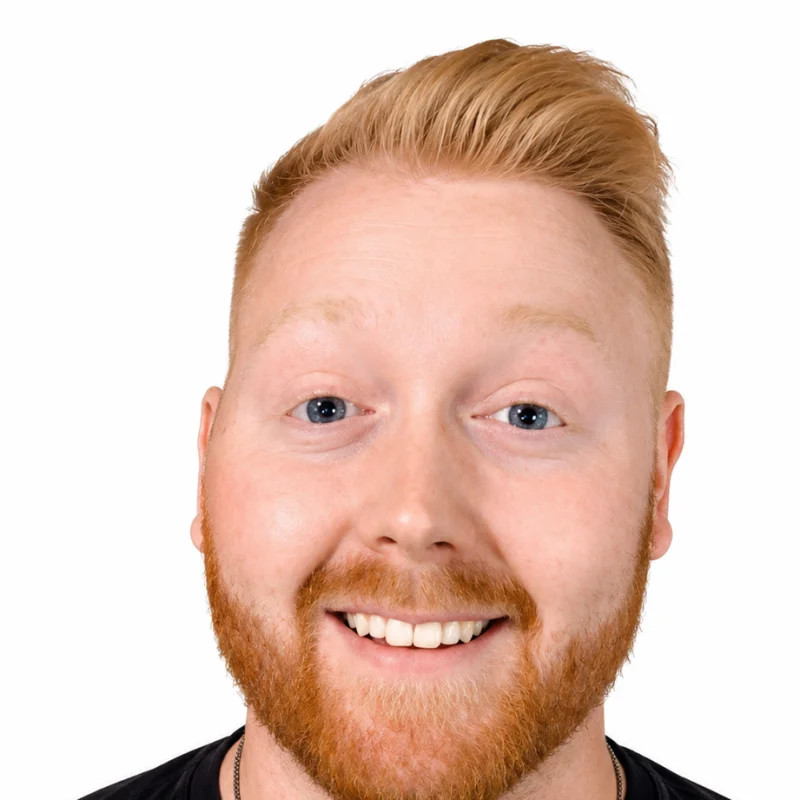
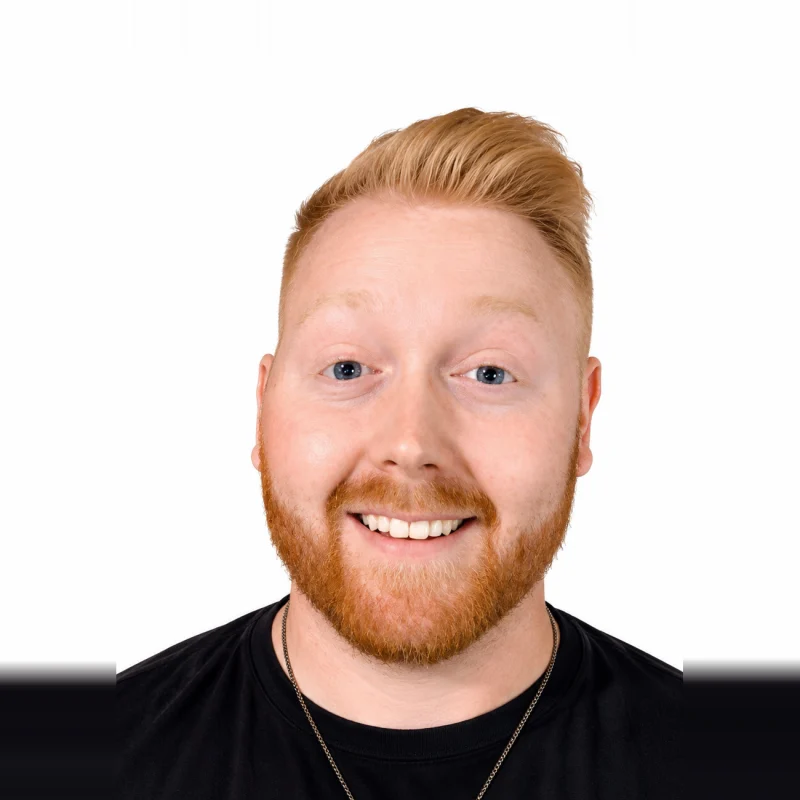
Match Jacob's photo scale to the grid; add Kevin's headshot
Jacob's source was cropped so tightly that his head filled 95% of a square
crop, against ~50-60% for every other portrait -- he read as zoomed in next
to the rest of the grid. His shoulders reach the frame edges just below the
beard, so there was no room to crop wider; instead the canvas is extended
to 1300px and the new margins are filled by replicating the edge columns.
The backdrop is flat white and the shirt flat black, so the fill is
seamless -- with two corrections: backdrop-ish edges snap to the measured
white (254) to avoid faint vertical stripes, and the edge colours are
smoothed over 41 rows so the white-to-shirt transition reads as a soft
out-of-focus shoulder rather than a hard step. His head now sits at 67% of
frame.

Kevin's photo is a straight swap to a studio headshot (800px WebP, 1.7 MB
-> 44 KB); kevin-bishop.jpg removed.

diff --git a/lib/content.ts b/lib/content.ts
@@ -6,7 +6,7 @@
 import type { StaticImageData } from "next/image";
 
 import { site } from "@/lib/site";
-import kevinBishop from "@/assets/kevin-bishop.jpg";
+import kevinBishop from "@/assets/kevin-bishop.webp";
 import sharonBishop from "@/assets/sharon-bishop.webp";
 import jacobAnderson from "@/assets/jacob-anderson.webp";
 import amandaRoberson from "@/assets/amanda-roberson.webp";
